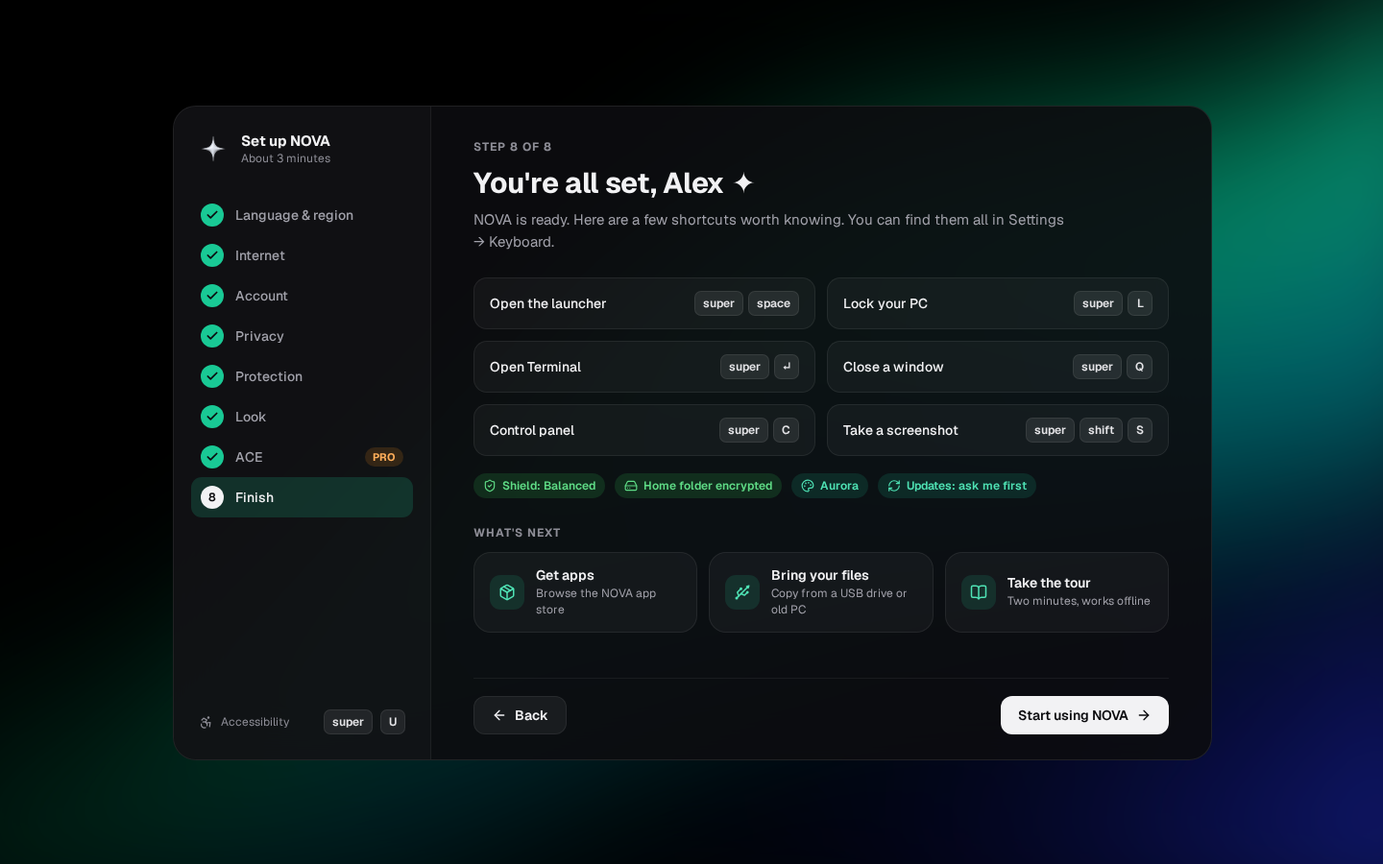
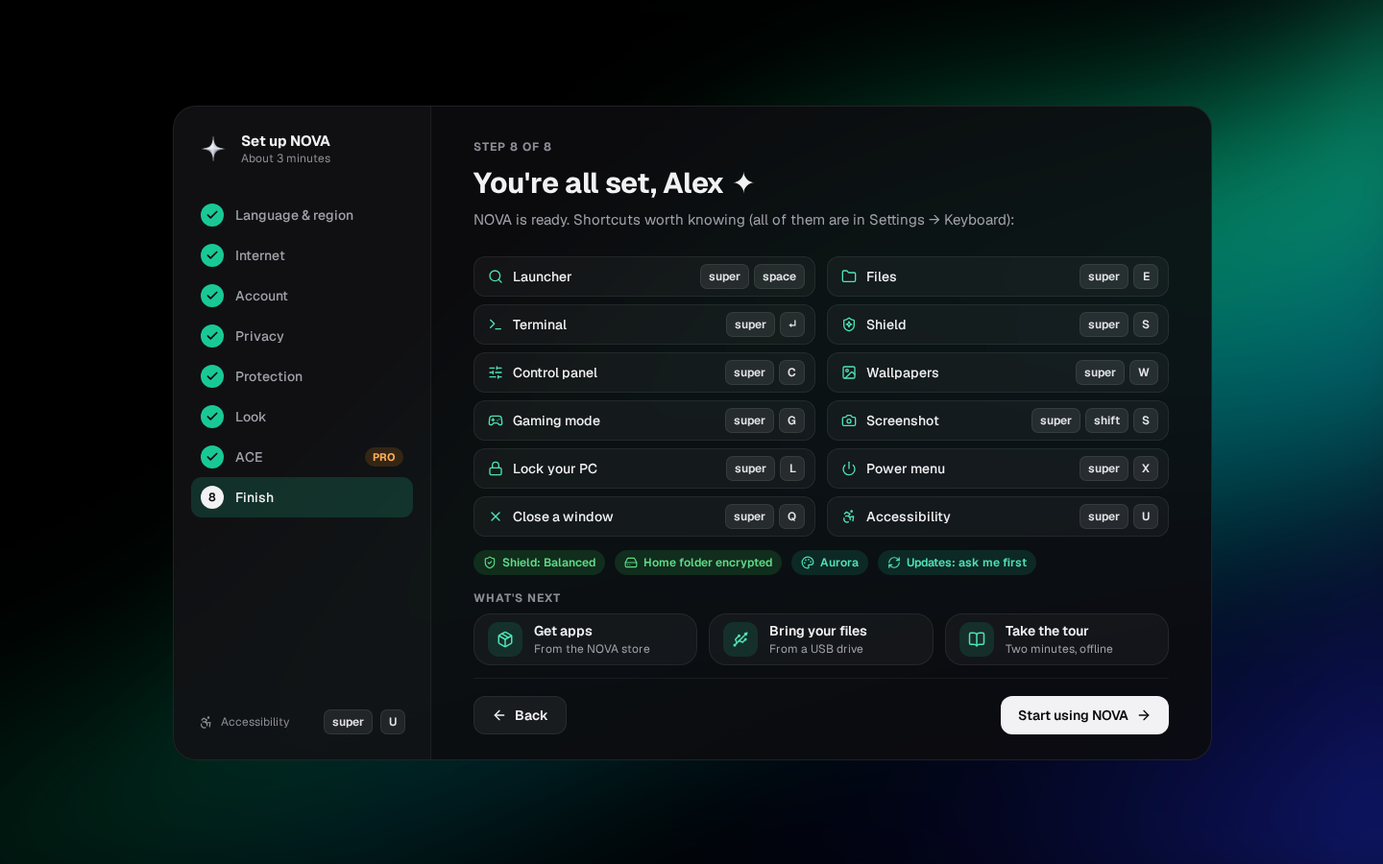
Setup wizard: 12 shortcuts on Finish (files, Shield, wallpapers, gaming mode, power menu), shortcut table
Claude-Session: https://claude.ai/code/session_01DdfBSRDMZzmuQVt2RtUUQE

diff --git a/nova-design-kit/screens/setup-finish.html b/nova-design-kit/screens/setup-finish.html
@@ -52,11 +52,11 @@ h1{margin:10px 0 0;font-size:30px;font-weight:700;letter-spacing:-.01em}
 </style></head><body>
 <div class="frame" style="--acc:#19C995;--acc-text:#4FE3B5;--on:#0B0B0E;--sel:rgba(25,201,149,.18);--tint:rgba(25,201,149,.14)">
 <img class="wall" src="../assets/wall-aurora.jpg" alt=""><div class="dim"></div>
-<div class="win" role="dialog" aria-label="Set up NOVA"><div class="side"><div class="brand"><img src="../assets/nova-star.png" alt=""><div><b>Set up NOVA</b><span>About 3 minutes</span></div></div><div class="step done"><span class="n"><svg width="14" height="14" viewBox="0 0 24 24" fill="none" stroke="currentColor" stroke-width="3" stroke-linecap="round" stroke-linejoin="round" aria-hidden="true" style="flex-shrink:0"><path d="M20 6 9 17l-5-5" /></svg></span>Language & region</div><div class="step done"><span class="n"><svg width="14" height="14" viewBox="0 0 24 24" fill="none" stroke="currentColor" stroke-width="3" stroke-linecap="round" stroke-linejoin="round" aria-hidden="true" style="flex-shrink:0"><path d="M20 6 9 17l-5-5" /></svg></span>Internet</div><div class="step done"><span class="n"><svg width="14" height="14" viewBox="0 0 24 24" fill="none" stroke="currentColor" stroke-width="3" stroke-linecap="round" stroke-linejoin="round" aria-hidden="true" style="flex-shrink:0"><path d="M20 6 9 17l-5-5" /></svg></span>Account</div><div class="step done"><span class="n"><svg width="14" height="14" viewBox="0 0 24 24" fill="none" stroke="currentColor" stroke-width="3" stroke-linecap="round" stroke-linejoin="round" aria-hidden="true" style="flex-shrink:0"><path d="M20 6 9 17l-5-5" /></svg></span>Privacy</div><div class="step done"><span class="n"><svg width="14" height="14" viewBox="0 0 24 24" fill="none" stroke="currentColor" stroke-width="3" stroke-linecap="round" stroke-linejoin="round" aria-hidden="true" style="flex-shrink:0"><path d="M20 6 9 17l-5-5" /></svg></span>Protection</div><div class="step done"><span class="n"><svg width="14" height="14" viewBox="0 0 24 24" fill="none" stroke="currentColor" stroke-width="3" stroke-linecap="round" stroke-linejoin="round" aria-hidden="true" style="flex-shrink:0"><path d="M20 6 9 17l-5-5" /></svg></span>Look</div><div class="step done"><span class="n"><svg width="14" height="14" viewBox="0 0 24 24" fill="none" stroke="currentColor" stroke-width="3" stroke-linecap="round" stroke-linejoin="round" aria-hidden="true" style="flex-shrink:0"><path d="M20 6 9 17l-5-5" /></svg></span>ACE<span class="pro">PRO</span></div><div class="step now" aria-current="step"><span class="n">8</span>Finish</div><div class="foot"><svg width="15" height="15" viewBox="0 0 24 24" fill="none" stroke="currentColor" stroke-width="2" stroke-linecap="round" stroke-linejoin="round" aria-hidden="true" style="flex-shrink:0"><circle cx="16" cy="4" r="1" /> <path d="m18 19 1-7-6 1" /> <path d="m5 8 3-3 5.5 3-2.36 3.5" /> <path d="M4.24 14.5a5 5 0 0 0 6.88 6" /> <path d="M13.76 17.5a5 5 0 0 0-6.88-6" /></svg>Accessibility <span class="kbd" style="margin-left:auto">super</span><span class="kbd">U</span></div></div><div class="main"><div class="kick">Step 8 of 8</div><h1>You're all set, Alex ✦</h1><p class="sub">NOVA is ready. Here are a few shortcuts worth knowing. You can find them all in Settings → Keyboard.</p><div class="body">
-<div style="display:grid;grid-template-columns:1fr 1fr;gap:12px"><div style="display:flex;align-items:center;gap:10px;height:52px;padding:0 16px;border-radius:14px;background:rgba(255,255,255,.04);border:1px solid rgba(255,255,255,.07)"><span style="font-size:14px;font-weight:500">Open the launcher</span><span style="margin-left:auto;display:flex;gap:5px"><span class=kbd>super</span><span class=kbd>space</span></span></div><div style="display:flex;align-items:center;gap:10px;height:52px;padding:0 16px;border-radius:14px;background:rgba(255,255,255,.04);border:1px solid rgba(255,255,255,.07)"><span style="font-size:14px;font-weight:500">Lock your PC</span><span style="margin-left:auto;display:flex;gap:5px"><span class=kbd>super</span><span class=kbd>L</span></span></div><div style="display:flex;align-items:center;gap:10px;height:52px;padding:0 16px;border-radius:14px;background:rgba(255,255,255,.04);border:1px solid rgba(255,255,255,.07)"><span style="font-size:14px;font-weight:500">Open Terminal</span><span style="margin-left:auto;display:flex;gap:5px"><span class=kbd>super</span><span class=kbd>↵</span></span></div><div style="display:flex;align-items:center;gap:10px;height:52px;padding:0 16px;border-radius:14px;background:rgba(255,255,255,.04);border:1px solid rgba(255,255,255,.07)"><span style="font-size:14px;font-weight:500">Close a window</span><span style="margin-left:auto;display:flex;gap:5px"><span class=kbd>super</span><span class=kbd>Q</span></span></div><div style="display:flex;align-items:center;gap:10px;height:52px;padding:0 16px;border-radius:14px;background:rgba(255,255,255,.04);border:1px solid rgba(255,255,255,.07)"><span style="font-size:14px;font-weight:500">Control panel</span><span style="margin-left:auto;display:flex;gap:5px"><span class=kbd>super</span><span class=kbd>C</span></span></div><div style="display:flex;align-items:center;gap:10px;height:52px;padding:0 16px;border-radius:14px;background:rgba(255,255,255,.04);border:1px solid rgba(255,255,255,.07)"><span style="font-size:14px;font-weight:500">Take a screenshot</span><span style="margin-left:auto;display:flex;gap:5px"><span class=kbd>super</span><span class=kbd>shift</span><span class=kbd>S</span></span></div></div>
-<div style="margin-top:18px;display:flex;gap:10px;flex-wrap:wrap">
+<div class="win" role="dialog" aria-label="Set up NOVA"><div class="side"><div class="brand"><img src="../assets/nova-star.png" alt=""><div><b>Set up NOVA</b><span>About 3 minutes</span></div></div><div class="step done"><span class="n"><svg width="14" height="14" viewBox="0 0 24 24" fill="none" stroke="currentColor" stroke-width="3" stroke-linecap="round" stroke-linejoin="round" aria-hidden="true" style="flex-shrink:0"><path d="M20 6 9 17l-5-5" /></svg></span>Language & region</div><div class="step done"><span class="n"><svg width="14" height="14" viewBox="0 0 24 24" fill="none" stroke="currentColor" stroke-width="3" stroke-linecap="round" stroke-linejoin="round" aria-hidden="true" style="flex-shrink:0"><path d="M20 6 9 17l-5-5" /></svg></span>Internet</div><div class="step done"><span class="n"><svg width="14" height="14" viewBox="0 0 24 24" fill="none" stroke="currentColor" stroke-width="3" stroke-linecap="round" stroke-linejoin="round" aria-hidden="true" style="flex-shrink:0"><path d="M20 6 9 17l-5-5" /></svg></span>Account</div><div class="step done"><span class="n"><svg width="14" height="14" viewBox="0 0 24 24" fill="none" stroke="currentColor" stroke-width="3" stroke-linecap="round" stroke-linejoin="round" aria-hidden="true" style="flex-shrink:0"><path d="M20 6 9 17l-5-5" /></svg></span>Privacy</div><div class="step done"><span class="n"><svg width="14" height="14" viewBox="0 0 24 24" fill="none" stroke="currentColor" stroke-width="3" stroke-linecap="round" stroke-linejoin="round" aria-hidden="true" style="flex-shrink:0"><path d="M20 6 9 17l-5-5" /></svg></span>Protection</div><div class="step done"><span class="n"><svg width="14" height="14" viewBox="0 0 24 24" fill="none" stroke="currentColor" stroke-width="3" stroke-linecap="round" stroke-linejoin="round" aria-hidden="true" style="flex-shrink:0"><path d="M20 6 9 17l-5-5" /></svg></span>Look</div><div class="step done"><span class="n"><svg width="14" height="14" viewBox="0 0 24 24" fill="none" stroke="currentColor" stroke-width="3" stroke-linecap="round" stroke-linejoin="round" aria-hidden="true" style="flex-shrink:0"><path d="M20 6 9 17l-5-5" /></svg></span>ACE<span class="pro">PRO</span></div><div class="step now" aria-current="step"><span class="n">8</span>Finish</div><div class="foot"><svg width="15" height="15" viewBox="0 0 24 24" fill="none" stroke="currentColor" stroke-width="2" stroke-linecap="round" stroke-linejoin="round" aria-hidden="true" style="flex-shrink:0"><circle cx="16" cy="4" r="1" /> <path d="m18 19 1-7-6 1" /> <path d="m5 8 3-3 5.5 3-2.36 3.5" /> <path d="M4.24 14.5a5 5 0 0 0 6.88 6" /> <path d="M13.76 17.5a5 5 0 0 0-6.88-6" /></svg>Accessibility <span class="kbd" style="margin-left:auto">super</span><span class="kbd">U</span></div></div><div class="main"><div class="kick">Step 8 of 8</div><h1>You're all set, Alex ✦</h1><p class="sub">NOVA is ready. Shortcuts worth knowing (all of them are in Settings → Keyboard):</p><div class="body">
+<div style="display:grid;grid-template-columns:1fr 1fr;gap:8px 12px"><div style="display:flex;align-items:center;gap:10px;height:40px;padding:0 10px 0 14px;border-radius:12px;background:rgba(255,255,255,.04);border:1px solid rgba(255,255,255,.07)"><span style="color:var(--acc-text);display:flex"><svg width="16" height="16" viewBox="0 0 24 24" fill="none" stroke="currentColor" stroke-width="2" stroke-linecap="round" stroke-linejoin="round" aria-hidden="true" style="flex-shrink:0"><path d="m21 21-4.34-4.34" /> <circle cx="11" cy="11" r="8" /></svg></span><span style="font-size:14px;font-weight:500">Launcher</span><span style="margin-left:auto;display:flex;gap:5px"><span class=kbd>super</span><span class=kbd>space</span></span></div><div style="display:flex;align-items:center;gap:10px;height:40px;padding:0 10px 0 14px;border-radius:12px;background:rgba(255,255,255,.04);border:1px solid rgba(255,255,255,.07)"><span style="color:var(--acc-text);display:flex"><svg width="16" height="16" viewBox="0 0 24 24" fill="none" stroke="currentColor" stroke-width="2" stroke-linecap="round" stroke-linejoin="round" aria-hidden="true" style="flex-shrink:0"><path d="M20 20a2 2 0 0 0 2-2V8a2 2 0 0 0-2-2h-7.9a2 2 0 0 1-1.69-.9L9.6 3.9A2 2 0 0 0 7.93 3H4a2 2 0 0 0-2 2v13a2 2 0 0 0 2 2Z" /></svg></span><span style="font-size:14px;font-weight:500">Files</span><span style="margin-left:auto;display:flex;gap:5px"><span class=kbd>super</span><span class=kbd>E</span></span></div><div style="display:flex;align-items:center;gap:10px;height:40px;padding:0 10px 0 14px;border-radius:12px;background:rgba(255,255,255,.04);border:1px solid rgba(255,255,255,.07)"><span style="color:var(--acc-text);display:flex"><svg width="16" height="16" viewBox="0 0 24 24" fill="none" stroke="currentColor" stroke-width="2" stroke-linecap="round" stroke-linejoin="round" aria-hidden="true" style="flex-shrink:0"><path d="M12 19h8" /> <path d="m4 17 6-6-6-6" /></svg></span><span style="font-size:14px;font-weight:500">Terminal</span><span style="margin-left:auto;display:flex;gap:5px"><span class=kbd>super</span><span class=kbd>↵</span></span></div><div style="display:flex;align-items:center;gap:10px;height:40px;padding:0 10px 0 14px;border-radius:12px;background:rgba(255,255,255,.04);border:1px solid rgba(255,255,255,.07)"><span style="color:var(--acc-text);display:flex"><svg width="16" height="16" viewBox="0 0 24 24" fill="none" stroke="currentColor" stroke-width="2" stroke-linecap="round" stroke-linejoin="round" aria-hidden="true" style="flex-shrink:0"><path d="M20 13c0 5-3.5 7.5-7.66 8.95a1 1 0 0 1-.67-.01C7.5 20.5 4 18 4 13V6a1 1 0 0 1 1-1c2 0 4.5-1.2 6.24-2.72a1.17 1.17 0 0 1 1.52 0C14.51 3.81 17 5 19 5a1 1 0 0 1 1 1z"/><path d="M12 7.5c.35 2.6 1.6 3.85 4.2 4.2-2.6.35-3.85 1.6-4.2 4.2-.35-2.6-1.6-3.85-4.2-4.2 2.6-.35 3.85-1.6 4.2-4.2z"/></svg></span><span style="font-size:14px;font-weight:500">Shield</span><span style="margin-left:auto;display:flex;gap:5px"><span class=kbd>super</span><span class=kbd>S</span></span></div><div style="display:flex;align-items:center;gap:10px;height:40px;padding:0 10px 0 14px;border-radius:12px;background:rgba(255,255,255,.04);border:1px solid rgba(255,255,255,.07)"><span style="color:var(--acc-text);display:flex"><svg width="16" height="16" viewBox="0 0 24 24" fill="none" stroke="currentColor" stroke-width="2" stroke-linecap="round" stroke-linejoin="round" aria-hidden="true" style="flex-shrink:0"><path d="M10 5H3" /> <path d="M12 19H3" /> <path d="M14 3v4" /> <path d="M16 17v4" /> <path d="M21 12h-9" /> <path d="M21 19h-5" /> <path d="M21 5h-7" /> <path d="M8 10v4" /> <path d="M8 12H3" /></svg></span><span style="font-size:14px;font-weight:500">Control panel</span><span style="margin-left:auto;display:flex;gap:5px"><span class=kbd>super</span><span class=kbd>C</span></span></div><div style="display:flex;align-items:center;gap:10px;height:40px;padding:0 10px 0 14px;border-radius:12px;background:rgba(255,255,255,.04);border:1px solid rgba(255,255,255,.07)"><span style="color:var(--acc-text);display:flex"><svg width="16" height="16" viewBox="0 0 24 24" fill="none" stroke="currentColor" stroke-width="2" stroke-linecap="round" stroke-linejoin="round" aria-hidden="true" style="flex-shrink:0"><rect width="18" height="18" x="3" y="3" rx="2" ry="2" /> <circle cx="9" cy="9" r="2" /> <path d="m21 15-3.086-3.086a2 2 0 0 0-2.828 0L6 21" /></svg></span><span style="font-size:14px;font-weight:500">Wallpapers</span><span style="margin-left:auto;display:flex;gap:5px"><span class=kbd>super</span><span class=kbd>W</span></span></div><div style="display:flex;align-items:center;gap:10px;height:40px;padding:0 10px 0 14px;border-radius:12px;background:rgba(255,255,255,.04);border:1px solid rgba(255,255,255,.07)"><span style="color:var(--acc-text);display:flex"><svg width="16" height="16" viewBox="0 0 24 24" fill="none" stroke="currentColor" stroke-width="2" stroke-linecap="round" stroke-linejoin="round" aria-hidden="true" style="flex-shrink:0"><line x1="6" x2="10" y1="11" y2="11" /> <line x1="8" x2="8" y1="9" y2="13" /> <line x1="15" x2="15.01" y1="12" y2="12" /> <line x1="18" x2="18.01" y1="10" y2="10" /> <path d="M17.32 5H6.68a4 4 0 0 0-3.978 3.59c-.006.052-.01.101-.017.152C2.604 9.416 2 14.456 2 16a3 3 0 0 0 3 3c1 0 1.5-.5 2-1l1.414-1.414A2 2 0 0 1 9.828 16h4.344a2 2 0 0 1 1.414.586L17 18c.5.5 1 1 2 1a3 3 0 0 0 3-3c0-1.545-.604-6.584-.685-7.258-.007-.05-.011-.1-.017-.151A4 4 0 0 0 17.32 5z" /></svg></span><span style="font-size:14px;font-weight:500">Gaming mode</span><span style="margin-left:auto;display:flex;gap:5px"><span class=kbd>super</span><span class=kbd>G</span></span></div><div style="display:flex;align-items:center;gap:10px;height:40px;padding:0 10px 0 14px;border-radius:12px;background:rgba(255,255,255,.04);border:1px solid rgba(255,255,255,.07)"><span style="color:var(--acc-text);display:flex"><svg width="16" height="16" viewBox="0 0 24 24" fill="none" stroke="currentColor" stroke-width="2" stroke-linecap="round" stroke-linejoin="round" aria-hidden="true" style="flex-shrink:0"><path d="M13.997 4a2 2 0 0 1 1.76 1.05l.486.9A2 2 0 0 0 18.003 7H20a2 2 0 0 1 2 2v9a2 2 0 0 1-2 2H4a2 2 0 0 1-2-2V9a2 2 0 0 1 2-2h1.997a2 2 0 0 0 1.759-1.048l.489-.904A2 2 0 0 1 10.004 4z" /> <circle cx="12" cy="13" r="3" /></svg></span><span style="font-size:14px;font-weight:500">Screenshot</span><span style="margin-left:auto;display:flex;gap:5px"><span class=kbd>super</span><span class=kbd>shift</span><span class=kbd>S</span></span></div><div style="display:flex;align-items:center;gap:10px;height:40px;padding:0 10px 0 14px;border-radius:12px;background:rgba(255,255,255,.04);border:1px solid rgba(255,255,255,.07)"><span style="color:var(--acc-text);display:flex"><svg width="16" height="16" viewBox="0 0 24 24" fill="none" stroke="currentColor" stroke-width="2" stroke-linecap="round" stroke-linejoin="round" aria-hidden="true" style="flex-shrink:0"><rect width="18" height="11" x="3" y="11" rx="2" ry="2" /> <path d="M7 11V7a5 5 0 0 1 10 0v4" /></svg></span><span style="font-size:14px;font-weight:500">Lock your PC</span><span style="margin-left:auto;display:flex;gap:5px"><span class=kbd>super</span><span class=kbd>L</span></span></div><div style="display:flex;align-items:center;gap:10px;height:40px;padding:0 10px 0 14px;border-radius:12px;background:rgba(255,255,255,.04);border:1px solid rgba(255,255,255,.07)"><span style="color:var(--acc-text);display:flex"><svg width="16" height="16" viewBox="0 0 24 24" fill="none" stroke="currentColor" stroke-width="2" stroke-linecap="round" stroke-linejoin="round" aria-hidden="true" style="flex-shrink:0"><path d="M12 2v10" /> <path d="M18.4 6.6a9 9 0 1 1-12.77.04" /></svg></span><span style="font-size:14px;font-weight:500">Power menu</span><span style="margin-left:auto;display:flex;gap:5px"><span class=kbd>super</span><span class=kbd>X</span></span></div><div style="display:flex;align-items:center;gap:10px;height:40px;padding:0 10px 0 14px;border-radius:12px;background:rgba(255,255,255,.04);border:1px solid rgba(255,255,255,.07)"><span style="color:var(--acc-text);display:flex"><svg width="16" height="16" viewBox="0 0 24 24" fill="none" stroke="currentColor" stroke-width="2" stroke-linecap="round" stroke-linejoin="round" aria-hidden="true" style="flex-shrink:0"><path d="M18 6 6 18" /> <path d="m6 6 12 12" /></svg></span><span style="font-size:14px;font-weight:500">Close a window</span><span style="margin-left:auto;display:flex;gap:5px"><span class=kbd>super</span><span class=kbd>Q</span></span></div><div style="display:flex;align-items:center;gap:10px;height:40px;padding:0 10px 0 14px;border-radius:12px;background:rgba(255,255,255,.04);border:1px solid rgba(255,255,255,.07)"><span style="color:var(--acc-text);display:flex"><svg width="16" height="16" viewBox="0 0 24 24" fill="none" stroke="currentColor" stroke-width="2" stroke-linecap="round" stroke-linejoin="round" aria-hidden="true" style="flex-shrink:0"><circle cx="16" cy="4" r="1" /> <path d="m18 19 1-7-6 1" /> <path d="m5 8 3-3 5.5 3-2.36 3.5" /> <path d="M4.24 14.5a5 5 0 0 0 6.88 6" /> <path d="M13.76 17.5a5 5 0 0 0-6.88-6" /></svg></span><span style="font-size:14px;font-weight:500">Accessibility</span><span style="margin-left:auto;display:flex;gap:5px"><span class=kbd>super</span><span class=kbd>U</span></span></div></div>
+<div style="margin-top:14px;display:flex;gap:10px;flex-wrap:wrap">
  <span class="chip g"><svg width="14" height="14" viewBox="0 0 24 24" fill="none" stroke="currentColor" stroke-width="2" stroke-linecap="round" stroke-linejoin="round" aria-hidden="true" style="flex-shrink:0"><path d="M20 13c0 5-3.5 7.5-7.66 8.95a1 1 0 0 1-.67-.01C7.5 20.5 4 18 4 13V6a1 1 0 0 1 1-1c2 0 4.5-1.2 6.24-2.72a1.17 1.17 0 0 1 1.52 0C14.51 3.81 17 5 19 5a1 1 0 0 1 1 1z" /> <path d="m9 12 2 2 4-4" /></svg>Shield: Balanced</span><span class="chip g"><svg width="14" height="14" viewBox="0 0 24 24" fill="none" stroke="currentColor" stroke-width="2" stroke-linecap="round" stroke-linejoin="round" aria-hidden="true" style="flex-shrink:0"><path d="M10 16h.01" /> <path d="M2.212 11.577a2 2 0 0 0-.212.896V18a2 2 0 0 0 2 2h16a2 2 0 0 0 2-2v-5.527a2 2 0 0 0-.212-.896L18.55 5.11A2 2 0 0 0 16.76 4H7.24a2 2 0 0 0-1.79 1.11z" /> <path d="M21.946 12.013H2.054" /> <path d="M6 16h.01" /></svg>Home folder encrypted</span>
  <span class="chip a"><svg width="14" height="14" viewBox="0 0 24 24" fill="none" stroke="currentColor" stroke-width="2" stroke-linecap="round" stroke-linejoin="round" aria-hidden="true" style="flex-shrink:0"><path d="M12 22a1 1 0 0 1 0-20 10 9 0 0 1 10 9 5 5 0 0 1-5 5h-2.25a1.75 1.75 0 0 0-1.4 2.8l.3.4a1.75 1.75 0 0 1-1.4 2.8z" /> <circle cx="13.5" cy="6.5" r=".5" fill="currentColor" /> <circle cx="17.5" cy="10.5" r=".5" fill="currentColor" /> <circle cx="6.5" cy="12.5" r=".5" fill="currentColor" /> <circle cx="8.5" cy="7.5" r=".5" fill="currentColor" /></svg>Aurora</span><span class="chip a"><svg width="14" height="14" viewBox="0 0 24 24" fill="none" stroke="currentColor" stroke-width="2" stroke-linecap="round" stroke-linejoin="round" aria-hidden="true" style="flex-shrink:0"><path d="M3 12a9 9 0 0 1 9-9 9.75 9.75 0 0 1 6.74 2.74L21 8" /> <path d="M21 3v5h-5" /> <path d="M21 12a9 9 0 0 1-9 9 9.75 9.75 0 0 1-6.74-2.74L3 16" /> <path d="M8 16H3v5" /></svg>Updates: ask me first</span></div>
-<p class="lbl" style="margin:28px 0 12px">What's next</p>
-<div style="display:flex;gap:12px"><div class="card" style="flex:1;padding:14px 16px;display:flex;align-items:center;gap:12px"><div class="tile"><svg width="18" height="18" viewBox="0 0 24 24" fill="none" stroke="currentColor" stroke-width="2" stroke-linecap="round" stroke-linejoin="round" aria-hidden="true" style="flex-shrink:0"><path d="M11 21.73a2 2 0 0 0 2 0l7-4A2 2 0 0 0 21 16V8a2 2 0 0 0-1-1.73l-7-4a2 2 0 0 0-2 0l-7 4A2 2 0 0 0 3 8v8a2 2 0 0 0 1 1.73z" /> <path d="M12 22V12" /> <polyline points="3.29 7 12 12 20.71 7" /> <path d="m7.5 4.27 9 5.15" /></svg></div><div><div class="t1" style="font-size:14px">Get apps</div><div class="t2" style="font-size:12px;margin-top:2px">Browse the NOVA app store</div></div></div><div class="card" style="flex:1;padding:14px 16px;display:flex;align-items:center;gap:12px"><div class="tile"><svg width="18" height="18" viewBox="0 0 24 24" fill="none" stroke="currentColor" stroke-width="2" stroke-linecap="round" stroke-linejoin="round" aria-hidden="true" style="flex-shrink:0"><circle cx="10" cy="7" r="1" /> <circle cx="4" cy="20" r="1" /> <path d="M4.7 19.3 19 5" /> <path d="m21 3-3 1 2 2Z" /> <path d="M9.26 7.68 5 12l2 5" /> <path d="m10 14 5 2 3.5-3.5" /> <path d="m18 12 1-1 1 1-1 1Z" /></svg></div><div><div class="t1" style="font-size:14px">Bring your files</div><div class="t2" style="font-size:12px;margin-top:2px">Copy from a USB drive or old PC</div></div></div><div class="card" style="flex:1;padding:14px 16px;display:flex;align-items:center;gap:12px"><div class="tile"><svg width="18" height="18" viewBox="0 0 24 24" fill="none" stroke="currentColor" stroke-width="2" stroke-linecap="round" stroke-linejoin="round" aria-hidden="true" style="flex-shrink:0"><path d="M12 5v16" /> <path d="M20.001 19A2 2 0 0022 17V5a2 2 0 00-1.999-2L16 3.002A5 5 0 0012 5a5 5 0 00-4-2H4a2 2 0 00-2 2v12a2 2 0 001.999 2H8a5 5 0 014 2 5 5 0 014-2z" /></svg></div><div><div class="t1" style="font-size:14px">Take the tour</div><div class="t2" style="font-size:12px;margin-top:2px">Two minutes, works offline</div></div></div></div></div><div class="nav"><span class=btn><svg width="16" height="16" viewBox="0 0 24 24" fill="none" stroke="currentColor" stroke-width="2" stroke-linecap="round" stroke-linejoin="round" aria-hidden="true" style="flex-shrink:0"><path d="m12 19-7-7 7-7" /> <path d="M19 12H5" /></svg>Back</span><span style="margin-left:auto"></span><span class="btn pri">Start using NOVA<svg width="16" height="16" viewBox="0 0 24 24" fill="none" stroke="currentColor" stroke-width="2" stroke-linecap="round" stroke-linejoin="round" aria-hidden="true" style="flex-shrink:0"><path d="M5 12h14" /> <path d="m12 5 7 7-7 7" /></svg></span></div></div></div>
+<p class="lbl" style="margin:16px 0 8px">What's next</p>
+<div style="display:flex;gap:12px"><div class="card" style="flex:1;padding:8px 14px;display:flex;align-items:center;gap:12px"><div class="tile"><svg width="18" height="18" viewBox="0 0 24 24" fill="none" stroke="currentColor" stroke-width="2" stroke-linecap="round" stroke-linejoin="round" aria-hidden="true" style="flex-shrink:0"><path d="M11 21.73a2 2 0 0 0 2 0l7-4A2 2 0 0 0 21 16V8a2 2 0 0 0-1-1.73l-7-4a2 2 0 0 0-2 0l-7 4A2 2 0 0 0 3 8v8a2 2 0 0 0 1 1.73z" /> <path d="M12 22V12" /> <polyline points="3.29 7 12 12 20.71 7" /> <path d="m7.5 4.27 9 5.15" /></svg></div><div><div class="t1" style="font-size:14px">Get apps</div><div class="t2" style="font-size:12px;margin-top:2px">From the NOVA store</div></div></div><div class="card" style="flex:1;padding:8px 14px;display:flex;align-items:center;gap:12px"><div class="tile"><svg width="18" height="18" viewBox="0 0 24 24" fill="none" stroke="currentColor" stroke-width="2" stroke-linecap="round" stroke-linejoin="round" aria-hidden="true" style="flex-shrink:0"><circle cx="10" cy="7" r="1" /> <circle cx="4" cy="20" r="1" /> <path d="M4.7 19.3 19 5" /> <path d="m21 3-3 1 2 2Z" /> <path d="M9.26 7.68 5 12l2 5" /> <path d="m10 14 5 2 3.5-3.5" /> <path d="m18 12 1-1 1 1-1 1Z" /></svg></div><div><div class="t1" style="font-size:14px">Bring your files</div><div class="t2" style="font-size:12px;margin-top:2px">From a USB drive</div></div></div><div class="card" style="flex:1;padding:8px 14px;display:flex;align-items:center;gap:12px"><div class="tile"><svg width="18" height="18" viewBox="0 0 24 24" fill="none" stroke="currentColor" stroke-width="2" stroke-linecap="round" stroke-linejoin="round" aria-hidden="true" style="flex-shrink:0"><path d="M12 5v16" /> <path d="M20.001 19A2 2 0 0022 17V5a2 2 0 00-1.999-2L16 3.002A5 5 0 0012 5a5 5 0 00-4-2H4a2 2 0 00-2 2v12a2 2 0 001.999 2H8a5 5 0 014 2 5 5 0 014-2z" /></svg></div><div><div class="t1" style="font-size:14px">Take the tour</div><div class="t2" style="font-size:12px;margin-top:2px">Two minutes, offline</div></div></div></div></div><div class="nav"><span class=btn><svg width="16" height="16" viewBox="0 0 24 24" fill="none" stroke="currentColor" stroke-width="2" stroke-linecap="round" stroke-linejoin="round" aria-hidden="true" style="flex-shrink:0"><path d="m12 19-7-7 7-7" /> <path d="M19 12H5" /></svg>Back</span><span style="margin-left:auto"></span><span class="btn pri">Start using NOVA<svg width="16" height="16" viewBox="0 0 24 24" fill="none" stroke="currentColor" stroke-width="2" stroke-linecap="round" stroke-linejoin="round" aria-hidden="true" style="flex-shrink:0"><path d="M5 12h14" /> <path d="m12 5 7 7-7 7" /></svg></span></div></div></div>
 </div></body></html>

diff --git a/nova-design-kit/setup/gen_setup.py b/nova-design-kit/setup/gen_setup.py
@@ -237,16 +237,21 @@ S['setup-ace'] = ('Setup: ACE', win(6, 'Meet ACE', "Your ace up the sleeve. ACE 
  </div></div>''', cont='Turn on ACE', extra='<span class="link" style="margin-right:14px">Maybe later</span>'))
 
 # 8. Finish
-keys = [('Open the launcher', ['super', 'space']), ('Lock your PC', ['super', 'L']), ('Open Terminal', ['super', '↵']), ('Close a window', ['super', 'Q']), ('Control panel', ['super', 'C']), ('Take a screenshot', ['super', 'shift', 'S'])]
-kg = ''.join(f'<div style="display:flex;align-items:center;gap:10px;height:52px;padding:0 16px;border-radius:14px;background:rgba(255,255,255,.04);border:1px solid rgba(255,255,255,.07)"><span style="font-size:14px;font-weight:500">{t}</span><span style="margin-left:auto;display:flex;gap:5px">{"".join(f"<span class=kbd>{k}</span>" for k in ks)}</span></div>' for t, ks in keys)
-NEXT = [('package', 'Get apps', 'Browse the NOVA app store'), ('usb', 'Bring your files', 'Copy from a USB drive or old PC'), ('book-open', 'Take the tour', 'Two minutes, works offline')]
-nxt = ''.join(f'<div class="card" style="flex:1;padding:14px 16px;display:flex;align-items:center;gap:12px"><div class="tile">{ic(i, 18)}</div><div><div class="t1" style="font-size:14px">{t}</div><div class="t2" style="font-size:12px;margin-top:2px">{d}</div></div></div>' for i, t, d in NEXT)
-S['setup-finish'] = ('Setup: finish', win(7, "You're all set, Alex ✦", 'NOVA is ready. Here are a few shortcuts worth knowing. You can find them all in Settings → Keyboard.', f'''
-<div style="display:grid;grid-template-columns:1fr 1fr;gap:12px">{kg}</div>
-<div style="margin-top:18px;display:flex;gap:10px;flex-wrap:wrap">
+keys = [('search', 'Launcher', ['super', 'space']), ('folder', 'Files', ['super', 'E']),
+        ('terminal', 'Terminal', ['super', '↵']), ('nova-shield', 'Shield', ['super', 'S']),
+        ('sliders-horizontal', 'Control panel', ['super', 'C']), ('image', 'Wallpapers', ['super', 'W']),
+        ('gamepad-2', 'Gaming mode', ['super', 'G']), ('camera', 'Screenshot', ['super', 'shift', 'S']),
+        ('lock', 'Lock your PC', ['super', 'L']), ('power', 'Power menu', ['super', 'X']),
+        ('x', 'Close a window', ['super', 'Q']), ('accessibility', 'Accessibility', ['super', 'U'])]
+kg = ''.join(f'<div style="display:flex;align-items:center;gap:10px;height:40px;padding:0 10px 0 14px;border-radius:12px;background:rgba(255,255,255,.04);border:1px solid rgba(255,255,255,.07)"><span style="color:var(--acc-text);display:flex">{ic(i, 16)}</span><span style="font-size:14px;font-weight:500">{t}</span><span style="margin-left:auto;display:flex;gap:5px">{"".join(f"<span class=kbd>{k}</span>" for k in ks)}</span></div>' for i, t, ks in keys)
+NEXT = [('package', 'Get apps', 'From the NOVA store'), ('usb', 'Bring your files', 'From a USB drive'), ('book-open', 'Take the tour', 'Two minutes, offline')]
+nxt = ''.join(f'<div class="card" style="flex:1;padding:8px 14px;display:flex;align-items:center;gap:12px"><div class="tile">{ic(i, 18)}</div><div><div class="t1" style="font-size:14px">{t}</div><div class="t2" style="font-size:12px;margin-top:2px">{d}</div></div></div>' for i, t, d in NEXT)
+S['setup-finish'] = ('Setup: finish', win(7, "You're all set, Alex ✦", 'NOVA is ready. Shortcuts worth knowing (all of them are in Settings → Keyboard):', f'''
+<div style="display:grid;grid-template-columns:1fr 1fr;gap:8px 12px">{kg}</div>
+<div style="margin-top:14px;display:flex;gap:10px;flex-wrap:wrap">
  <span class="chip g">{ic("shield-check", 14)}Shield: Balanced</span><span class="chip g">{ic("hard-drive", 14)}Home folder encrypted</span>
  <span class="chip a">{ic("palette", 14)}Aurora</span><span class="chip a">{ic("refresh-cw", 14)}Updates: ask me first</span></div>
-<p class="lbl" style="margin:28px 0 12px">What's next</p>
+<p class="lbl" style="margin:16px 0 8px">What's next</p>
 <div style="display:flex;gap:12px">{nxt}</div>''', cont='Start using NOVA'))
 
 out = os.path.join(HERE, '..', 'screens')

diff --git a/nova-design-kit/PROMPTS.md b/nova-design-kit/PROMPTS.md
@@ -201,7 +201,7 @@ Use Quickshell's WlSessionLock (or our lock tool) and PAM for the password.
 
 ### Power menu — `png/shell-power.png`
 ```
-Build the power menu to match png/shell-power.png: opens from the Control panel's power shortcut or Super+Escape. A centred glass panel over the desktop dimmed 40%: "Signed in as [NAME]", five 72px round buttons with labels and key hints: Lock (L), Sleep (S), Log out (O), Restart (R), Shut down (P, red tint). Arrow keys move, Enter or the letter runs it, Esc closes. Opens with a 400ms fade + scale 0.96→1. Use loginctl / systemctl.
+Build the power menu to match png/shell-power.png: opens from the Control panel's power shortcut or Super+X. A centred glass panel over the desktop dimmed 40%: "Signed in as [NAME]", five 72px round buttons with labels and key hints: Lock (L), Sleep (S), Log out (O), Restart (R), Shut down (P, red tint). Arrow keys move, Enter or the letter runs it, Esc closes. Opens with a 400ms fade + scale 0.96→1. Use loginctl / systemctl.
 ```
 
 ### Volume and brightness popup (OSD) — `png/shell-osd.png`
@@ -246,10 +246,19 @@ Screens, in order:
 5. Protection (setup-protection): three Shield level cards (Relaxed, Balanced = recommended + preselected, Strict), then Updates as a 3-way segmented control: Ask me first (default), Install automatically, Only when I check.
 6. Look (setup-look): the 6 wallpapers from nova-wallpapers/ in a 3×2 grid, a live mini preview, "Match accent to wallpaper" on. Picking a wallpaper changes the accent of the wizard itself right away (the accent floods out from the clicked thumbnail, 400ms): every later step uses the new accent, as in setup-look/ace/finish.
 7. ACE (setup-ace): NOVA Pro only. On other editions this step and its sidebar item don't exist and the steps renumber. Buddy (ace-happy), the greeting bubble, the four promise cards, "Maybe later" and "Turn on ACE".
-8. Finish (setup-finish): "You're all set, [FIRST NAME] ✦", six shortcut tiles, chips summing up the choices, three "What's next" cards, and "Start using NOVA", which logs straight into the new desktop.
+8. Finish (setup-finish): "You're all set, [FIRST NAME] ✦", twelve shortcut tiles (from DESIGN_SYSTEM.md → "Keyboard shortcuts"; read them from the real keybind config so they never go out of date), chips summing up the choices, three "What's next" cards, and "Start using NOVA", which logs straight into the new desktop.
 Layout: a 1080×680 window (radius 24) centred over the blurred wallpaper; left rail 268px with the brand, the numbered steps (done = accent circle with a check, current = white circle on the selected background, later = dimmed) and Accessibility (Super+U) at the bottom; content on the right: "STEP N OF 8" label, title 30/700, one subtitle line, content, then the nav bar (Back on the left; an optional link and the white primary button on the right).
 Behaviour: Continue stays disabled until the step is valid; Enter = Continue, Esc = Back. Steps slide: the content glides 40px left and fades out (first 40%) while the next one fades in from the right (second half), 800ms on the NOVA curve; the sidebar highlight glides to the next step. Clicking a finished step in the sidebar jumps back to it. Nothing is applied until Finish, except Wi-Fi and the wallpaper/accent preview; if the PC turns off halfway, the wizard starts again.
 On Finish: create the user (useradd + passwd, wheel group), apply locale, keymap, time zone, Shield level, update mode, wallpaper and accent, then remove the wizard's autostart.
 Wire it to: [localectl, timedatectl, NetworkManager/iwd, useradd, systemd-homed or fscrypt for encryption, our Shield and update config].
 No shadows and no grey edges. Match the screenshots closely.
+```
+
+---
+
+## Keyboard shortcuts — `png/setup-finish.png`
+```
+Set up NOVA's system keyboard shortcuts in Hyprland exactly as listed in DESIGN_SYSTEM.md → "Keyboard shortcuts". Keep them in one keybinds file, and have the setup wizard's Finish screen and Settings → Keyboard read that same file, so what we show always matches what works.
+Before adding them, list any existing binds that clash (Super+S, Super+E, Super+W, Super+G, Super+X, Super+U) and tell me what you moved.
+Gaming mode (Super+G) has no design yet: for now, make it toggle a gamemode profile (gamemoderun / Hyprland: animations, blur and shadows off, VRR on, Do Not Disturb on) and show the OSD with a gamepad icon and "Gaming mode on/off".
 ```

diff --git a/nova-design-kit/DESIGN_SYSTEM.md b/nova-design-kit/DESIGN_SYSTEM.md
@@ -178,3 +178,25 @@ Mockups: `png/setup-*.png`, overview `png/_setup-overview.png`, generator `setup
 | **Accent** | Follows the wallpaper picked in the Look step from that moment on |
 | **Motion** | Steps slide 40 px with the 800 ms glide (out in the first 40%, in during the second half); rail highlight glides; accent change floods from the clicked thumbnail (400 ms) |
 
+---
+
+## 9. Keyboard shortcuts
+
+One list, used by Hyprland, the setup wizard's Finish screen and Settings → Keyboard. Key caps show `super`, `shift`, `space`, `↵` and capital letters.
+
+| Shortcut | Does |
+|---|---|
+| Super + Space | Launcher |
+| Super + E | Files |
+| Super + Enter | Terminal |
+| Super + S | Shield |
+| Super + C | Control panel |
+| Super + W | Wallpapers (Settings → Appearance, wallpaper picker) |
+| Super + G | Gaming mode on/off (shows the OSD) |
+| Super + Shift + S | Screenshot |
+| Super + L | Lock |
+| Super + X | Power menu |
+| Super + Q | Close window |
+| Super + U | Accessibility |
+| Super + A | ACE (Pro only) |
+
